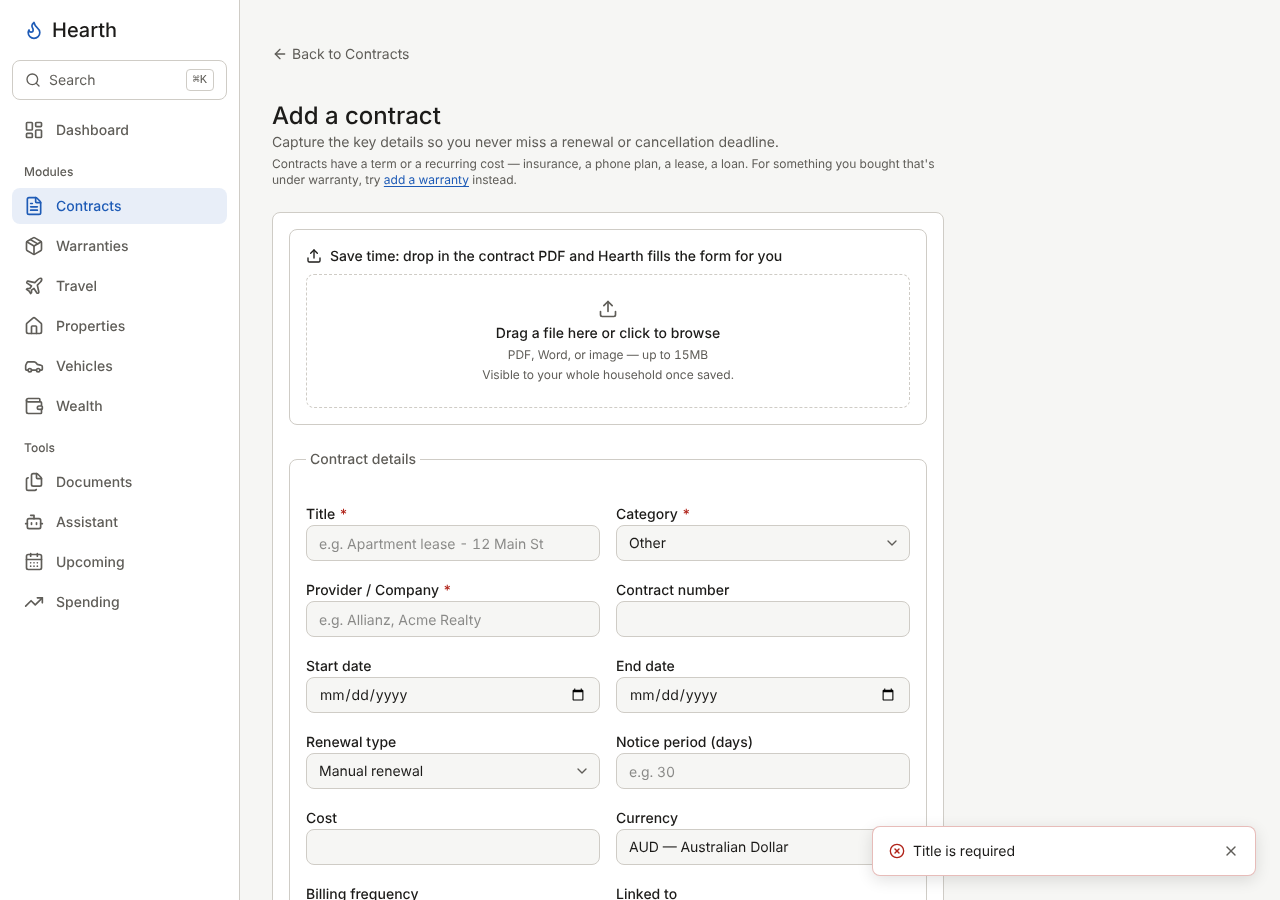
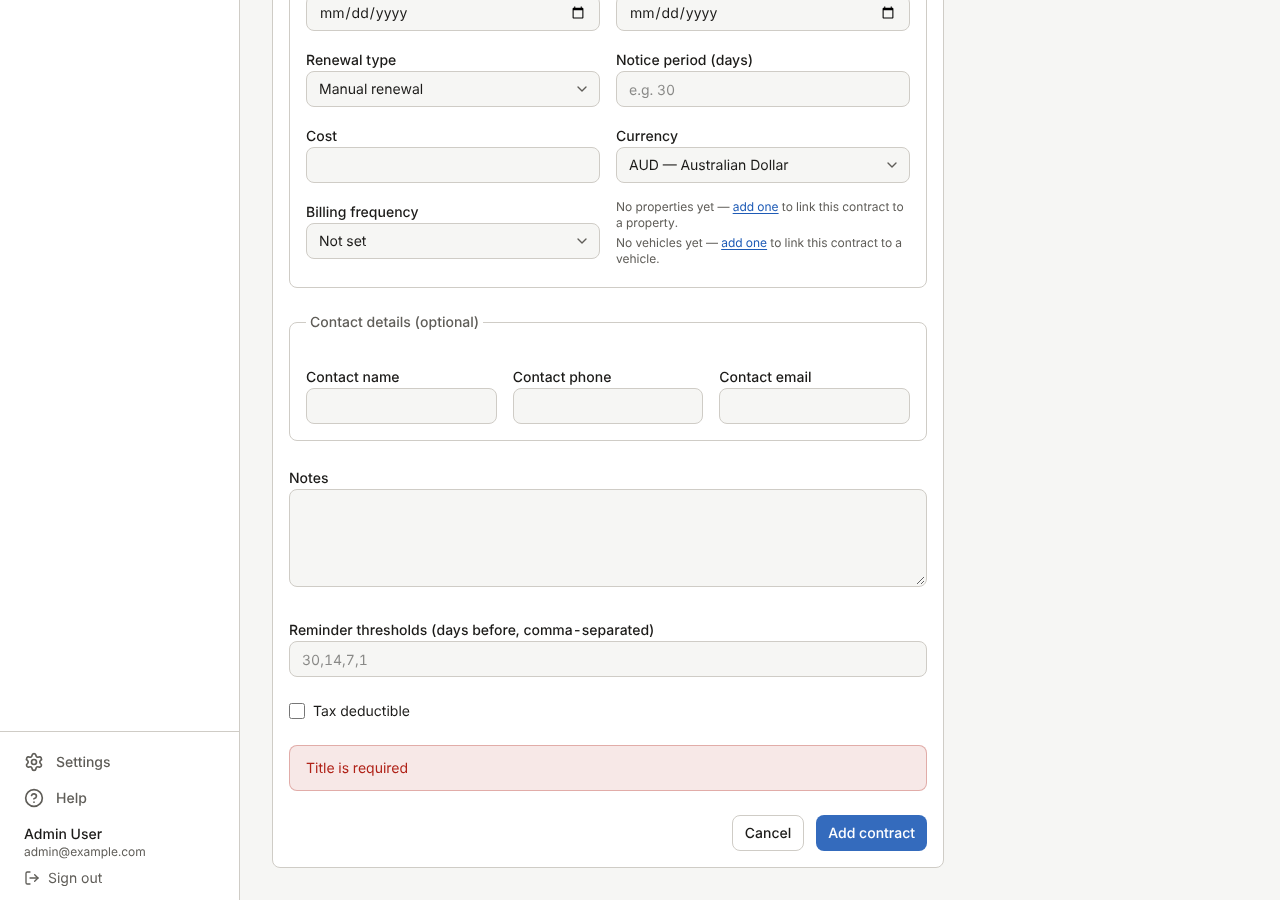
Center a form error in view; refresh form screenshots (#406)
Claude-Session: https://claude.ai/code/session_011ttcksqps9mXSo77U3gdr6

diff --git a/src/components/FormMessage.tsx b/src/components/FormMessage.tsx
@@ -21,7 +21,7 @@ export function FormMessage({
     } else if (error && error !== lastShown.current) {
       // #406 — an error is shown once, in this banner, not also as a toast.
       // The banner sits at the foot of the form, so bring it into view.
-      errorRef.current?.scrollIntoView?.({ block: "nearest" });
+      errorRef.current?.scrollIntoView?.({ block: "center" });
       lastShown.current = error;
     }
   }, [success, error]);
